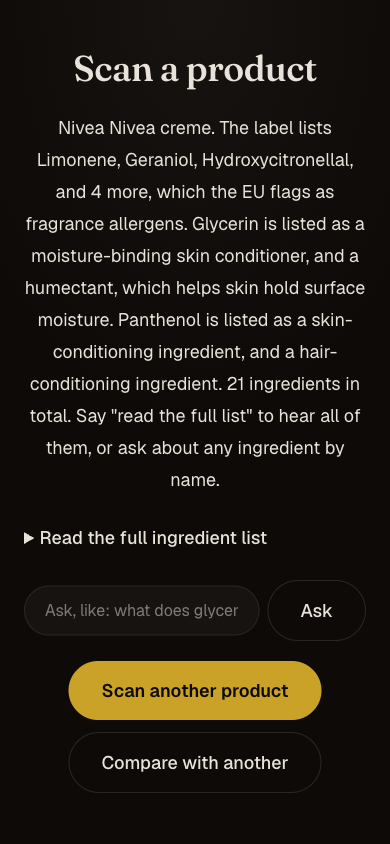
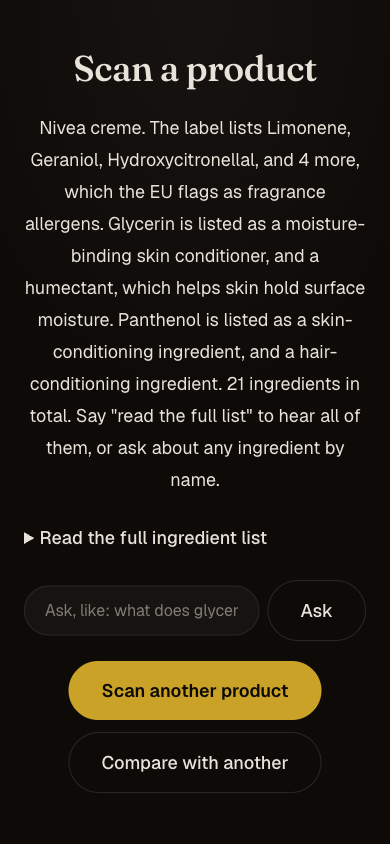
fix: eliminate React #418 hydration mismatch on /scan history list
Reading localStorage during render made server (empty) and client (populated)
paints disagree, throwing a console error on a core judge-facing page. Moved
scan history to a useSyncExternalStore-backed store (lib/history.ts) with an
empty server snapshot, so SSR and first client paint agree and later scans
update reactively. Also re-captured the scan-result screenshot with the fixed
Nivea creme title.

Changed region(s): [[0.0615, 0.1232, 0.9231, 0.3389]]

diff --git a/lib/history.ts b/lib/history.ts
@@ -1,0 +1,54 @@
+/**
+ * Scan-history external store. Backed by localStorage and read through
+ * useSyncExternalStore so server and first client paint agree (server
+ * snapshot is empty), avoiding a hydration mismatch, while later scans
+ * update the list reactively.
+ */
+export type HistoryEntry = { barcode: string; title: string; at: number };
+
+const KEY = "aloud:history";
+const listeners = new Set<() => void>();
+let cache = "[]";
+
+function read(): string {
+  try {
+    return localStorage.getItem(KEY) ?? "[]";
+  } catch {
+    return "[]";
+  }
+}
+
+export function subscribe(cb: () => void): () => void {
+  listeners.add(cb);
+  return () => listeners.delete(cb);
+}
+
+/** Stable-reference snapshot: same string value returns the cached reference. */
+export function getSnapshot(): string {
+  const value = read();
+  if (value !== cache) cache = value;
+  return cache;
+}
+
+export function getServerSnapshot(): string {
+  return "[]";
+}
+
+export function parseHistory(snapshot: string): HistoryEntry[] {
+  try {
+    return JSON.parse(snapshot) as HistoryEntry[];
+  } catch {
+    return [];
+  }
+}
+
+export function addToHistory(entry: HistoryEntry): void {
+  const current = parseHistory(getSnapshot());
+  const next = [entry, ...current.filter((e) => e.barcode !== entry.barcode)].slice(0, 20);
+  try {
+    localStorage.setItem(KEY, JSON.stringify(next));
+  } catch {
+    // storage unavailable is fine; history is a convenience only
+  }
+  listeners.forEach((l) => l());
+}

diff --git a/app/scan/page.tsx b/app/scan/page.tsx
@@ -1,9 +1,16 @@
 "use client";
 
-import { useCallback, useState } from "react";
+import { useCallback, useMemo, useState, useSyncExternalStore } from "react";
 import dynamic from "next/dynamic";
 import { LiveRegion } from "@/components/LiveRegion";
 import { speakCue } from "@/lib/audio-cues";
+import {
+  addToHistory,
+  getServerSnapshot,
+  getSnapshot,
+  parseHistory,
+  subscribe,
+} from "@/lib/history";
 
 const BarcodeScanner = dynamic(
   () => import("@/components/BarcodeScanner").then((m) => m.BarcodeScanner),
@@ -22,16 +29,6 @@ type ProductReadResponse = {
  * read -> drill-in (full list, follow-up questions through the agent).
  * Manual barcode entry is a first-class path, not a hidden fallback.
  */
-type HistoryEntry = { barcode: string; title: string; at: number };
-
-function readHistory(): HistoryEntry[] {
-  try {
-    return JSON.parse(localStorage.getItem("aloud:history") ?? "[]") as HistoryEntry[];
-  } catch {
-    return [];
-  }
-}
-
 export default function ScanPage() {
   const [phase, setPhase] = useState<Phase>("intro");
   const [announcement, setAnnouncement] = useState("");
@@ -43,9 +40,8 @@ export default function ScanPage() {
   const [answer, setAnswer] = useState("");
   const [lastBarcode, setLastBarcode] = useState("");
   const [compareWith, setCompareWith] = useState("");
-  const [history, setHistory] = useState<HistoryEntry[]>(() =>
-    typeof window === "undefined" ? [] : readHistory(),
-  );
+  const historySnapshot = useSyncExternalStore(subscribe, getSnapshot, getServerSnapshot);
+  const history = useMemo(() => parseHistory(historySnapshot), [historySnapshot]);
 
   const say = useCallback((text: string, force = false) => {
     setAnnouncement(text);
@@ -105,12 +101,7 @@ export default function ScanPage() {
             }),
           );
           if (body.status === "found") {
-            const next = [
-              { barcode, title, at: Date.now() },
-              ...readHistory().filter((h) => h.barcode !== barcode),
-            ].slice(0, 20);
-            localStorage.setItem("aloud:history", JSON.stringify(next));
-            setHistory(next);
+            addToHistory({ barcode, title, at: Date.now() });
           }
         } catch {
           // storage unavailable is fine; voice just starts without context